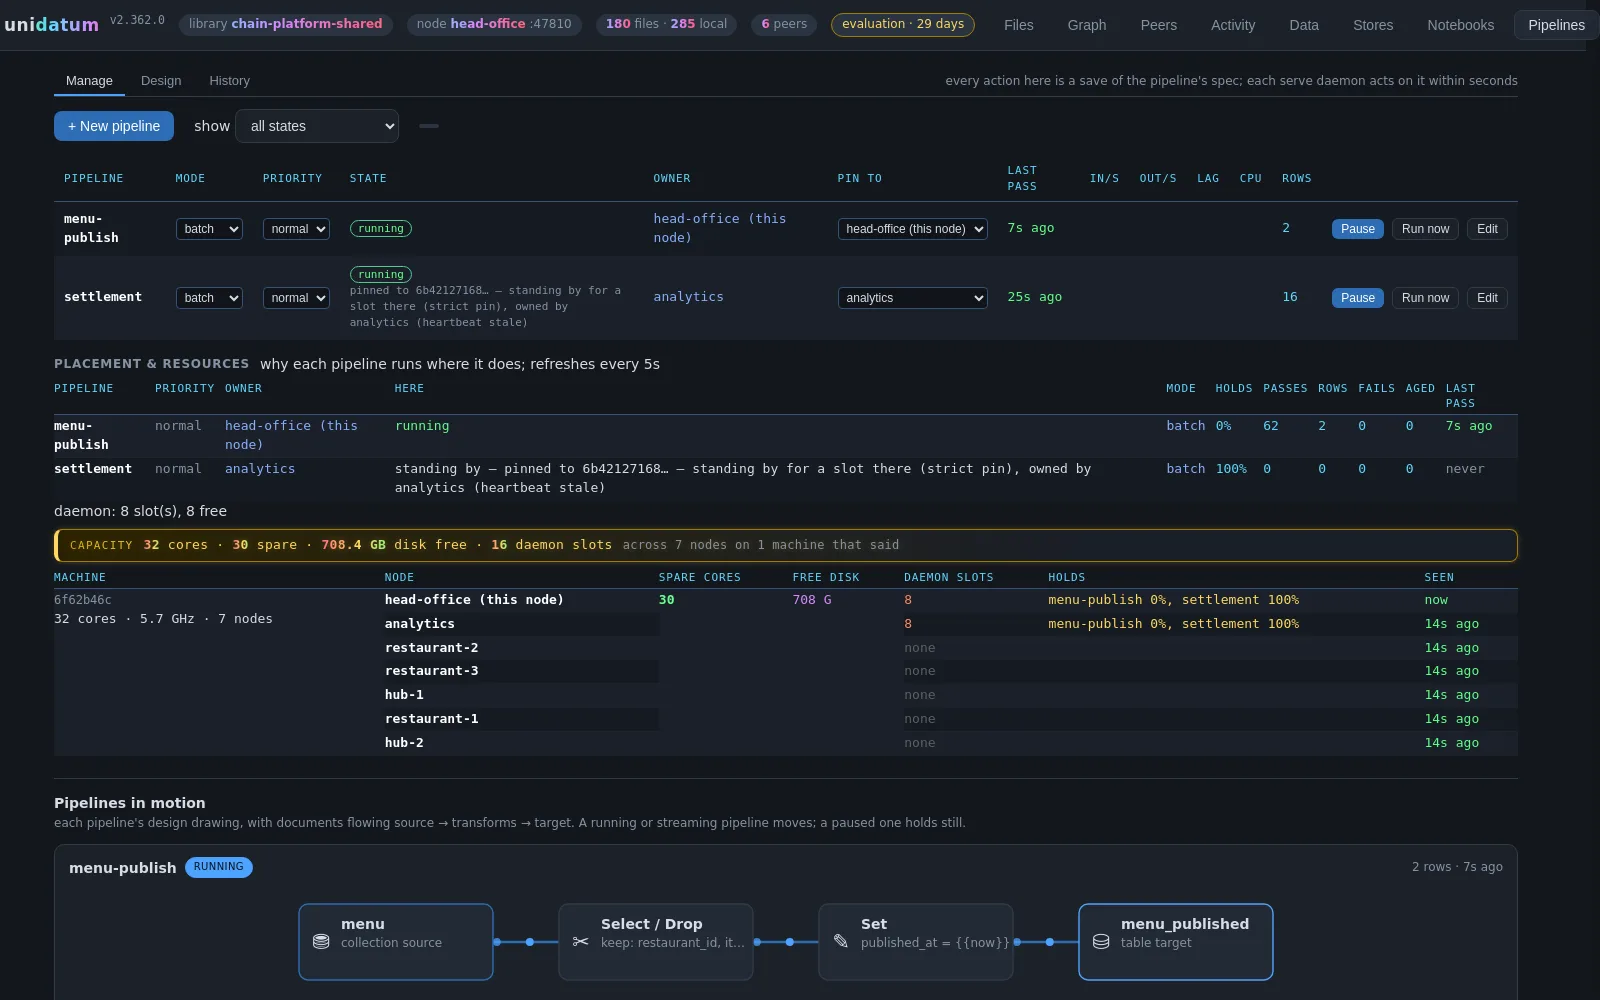
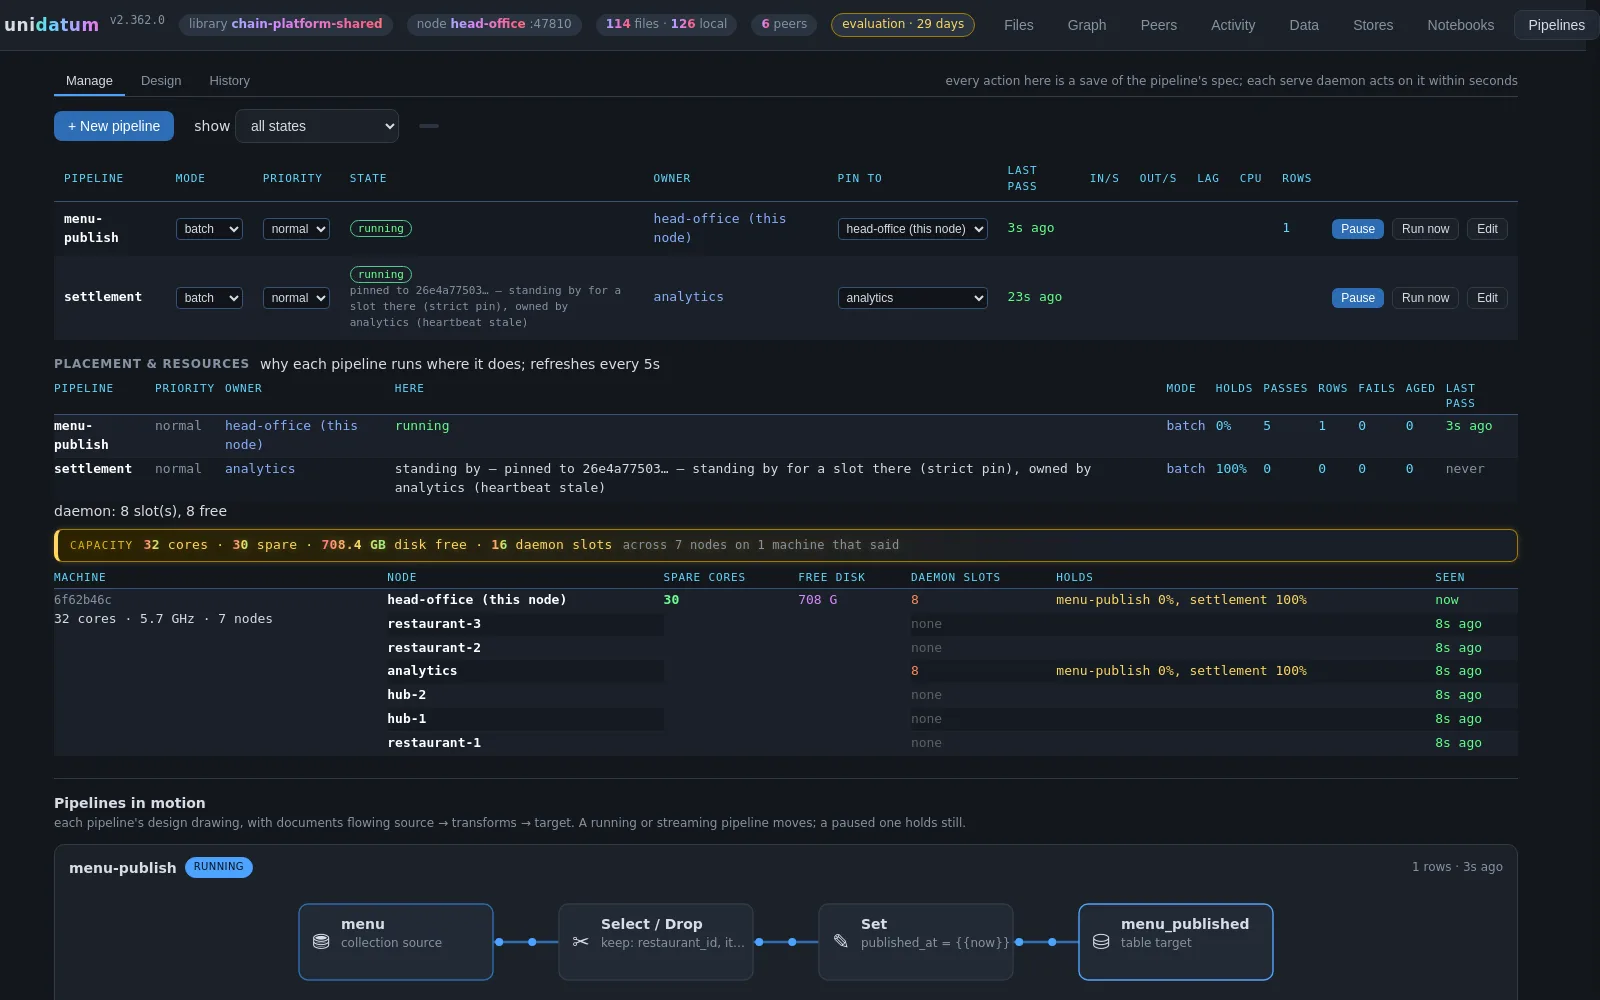
Every planted mismatch found: the batch above any landing, seeding open, the till written by the kitchen
Rebuilt from nothing again and ran the checks: 21 of 21, and the
reconciliation now finds all 18 lines the seed plants, none without a
till record. Three more gaps recorded: a timestamp cursor skips ties,
a node seeds only to peers it knows, and SQL over a hot collection
trails the document API. The dashboard's settlement question shows the
disputed lines, the ones with no till record, and the cents.

diff --git a/README.md b/README.md
@@ -41,12 +41,12 @@ live orders placed, twenty-one checks passing (`checks/run.mjs`).
 | what the sheet asked | target | measured |
 | --- | --- | --- |
 | a live order, placed to delivered | | 56 s: accepted 11 s after placing, ready 16 s later, dispatched 4 s after that, collected in 3 s, delivered 22 s on |
-| a menu price change live on the platform, signed | 5 minutes | 31 s |
-| orders delivered inside the promised time | 95% | 98.3% of 1,009 |
+| a menu price change live on the platform, signed | 5 minutes | 41 s |
+| orders delivered inside the promised time | 95% | 98.3% of 1,003 |
 | week close to the chain paid | 9 days | at most 7 days from delivery to the statement row |
-| settlement lines the chain disputes | the 2% the seed plants | 27 found (10, 6, 11 across the restaurants), including the six live orders delivered before the kitchen wrote its till record |
+| settlement lines the chain disputes | the 2% the seed plants | 18 found (4, 7 and 7 across the restaurants), the 18 planted, none without a till record |
 | signed publishes verified on the other side | every commit | hub-1 and the head office merged every op, none rejected |
-| the four dashboard queries | rows | 24, 48, 3 and 2 rows |
+| the four dashboard queries | rows | 24, 48 and 3 rows, and the orders in flight as they happen |
 
 ![One live order from the logs](docs/results/order.webp)
 
@@ -58,7 +58,7 @@ placement across the seven nodes, and the pipeline drawn in motion.
 
 Metabase over the PostgreSQL wires: prep time by restaurant and delivery
 time by hub from the analytics node, settlement against sales from the
-head office, orders in flight from hub-1.
+head office, orders in flight from hub-1. The settlement question also counts lines with no till record, a platform order the chain never rang up; the in-flight panel is a trailing view of the shared orders (GAPS.md, 15).
 
 ![The dashboards](docs/results/metabase.webp)
 

diff --git a/GAPS.md b/GAPS.md
@@ -75,3 +75,24 @@ and what this build did about it. The kit's prompt asked for this file.
     0.75)` in JavaScript; a third of the orders differed by a cent. The
     build sheet says which fields each side sets, not how each side
     rounds; a real settlement agreement would.
+13. **A timestamp cursor skips ties.** The reconciliation reads the
+    `settlements` table by its `settled_at` cursor. Every row a settlement
+    pass lands carries the same `settled_at`, so a reconcile pass that
+    stops partway through such a group moves its cursor to the group's
+    stamp and the rest of the group is never read: the first manual pass
+    of 500 rows over a landing of 988 left about half the planted
+    mismatches unfound. The daemon's batch is now 2,000, above any one
+    landing in this demo, and `DECISIONS.md` says so; a real deployment
+    would give the settlement a row-unique cursor column.
+14. **A node seeds only to peers it knows.** Blob bytes are served to
+    peers a node has synced with; the head office synced with
+    restaurant-1 alone and could never fetch a till member restaurant-2
+    wrote ("refusing to seed to unknown peer"). On one private network
+    every node runs with `--seed-open` (`DECISIONS.md`, 10).
+15. **SQL over a hot collection trails the document API.** `find` and
+    `count` resolve the latest version of every document at once;
+    `SELECT ... FROM platform_orders` reads the collection's members as
+    the SQL view last saw them, so an order the document API already
+    shows delivered can still read as in flight over the wire for a
+    while. The checks take the in-flight count from the document API;
+    the dashboard's panel is a trailing view and says so.

diff --git a/DEMO.md b/DEMO.md
@@ -65,7 +65,7 @@ run this was written from).
 | 1. Week closes | the analytics node | nothing: the `settlement` pipeline runs every 30 s over delivered orders (weekly in production, see GAPS.md 7) | |
 | 2. Compute the settlement | the analytics node, a rule | | `settlements` on the analytics node's shared library, http://127.0.0.1:17541: gross, the 25% fee, net, week, customer and courier hashed |
 | 3. Publish the statement, signed | the analytics node, a rule | | the same table on the head office's shared node, http://127.0.0.1:17511 |
-| 4. Reconcile by order | the head office node, a rule | the `reconcile` pipeline joins the statement to the chain's own `sales` and keeps the lines that differ | `settlement_mismatches` on http://127.0.0.1:17510 (the seed plants about 2%) |
+| 4. Reconcile by order | the head office node, a rule | the `reconcile` pipeline joins the statement to the chain's own `sales` and keeps the lines that differ | `settlement_mismatches` on http://127.0.0.1:17510: the seed plants about 2% at 100 cents each; a line with no `sales_net_cents` is an order the till has no record of |
 | 5. Disputed lines | proposed for an agent | a slide | |
 | 6. Dispute over the limit | proposed for an agent | a slide: "a line over 50, or a repeat: a person decides" | |
 | 7. Pay the chain | the platform's finance, a rule | not built: the bank file is outside the design | |

diff --git a/DECISIONS.md b/DECISIONS.md
@@ -41,3 +41,14 @@ starting. These are the answers this build runs on, and why.
    fraud hold, the refund gate, the price approval, the stock-out queue
    and the disputed lines run as rules or by hand in the demo, and
    `DEMO.md` shows them as the slides they would be.
+9. **Pipeline passes read up to 2,000 documents** (`PIPELINE_BATCH`),
+   above any one landing of the settlement, because the reconciliation's
+   timestamp cursor skips the rest of a group of rows that share a stamp
+   (`GAPS.md`, 13).
+10. **Every node seeds to any peer** (`--seed-open`). A node serves blob
+    bytes only to peers it knows, and a peer is known by having synced
+    with it; the head office synced with restaurant-1 and so could never
+    fetch a till member that restaurant-2 wrote. On one private network
+    every container is a member of its library, so seeding is open. A
+    real deployment registers its peers (invites, or a sync with each)
+    and keeps seeding closed.
